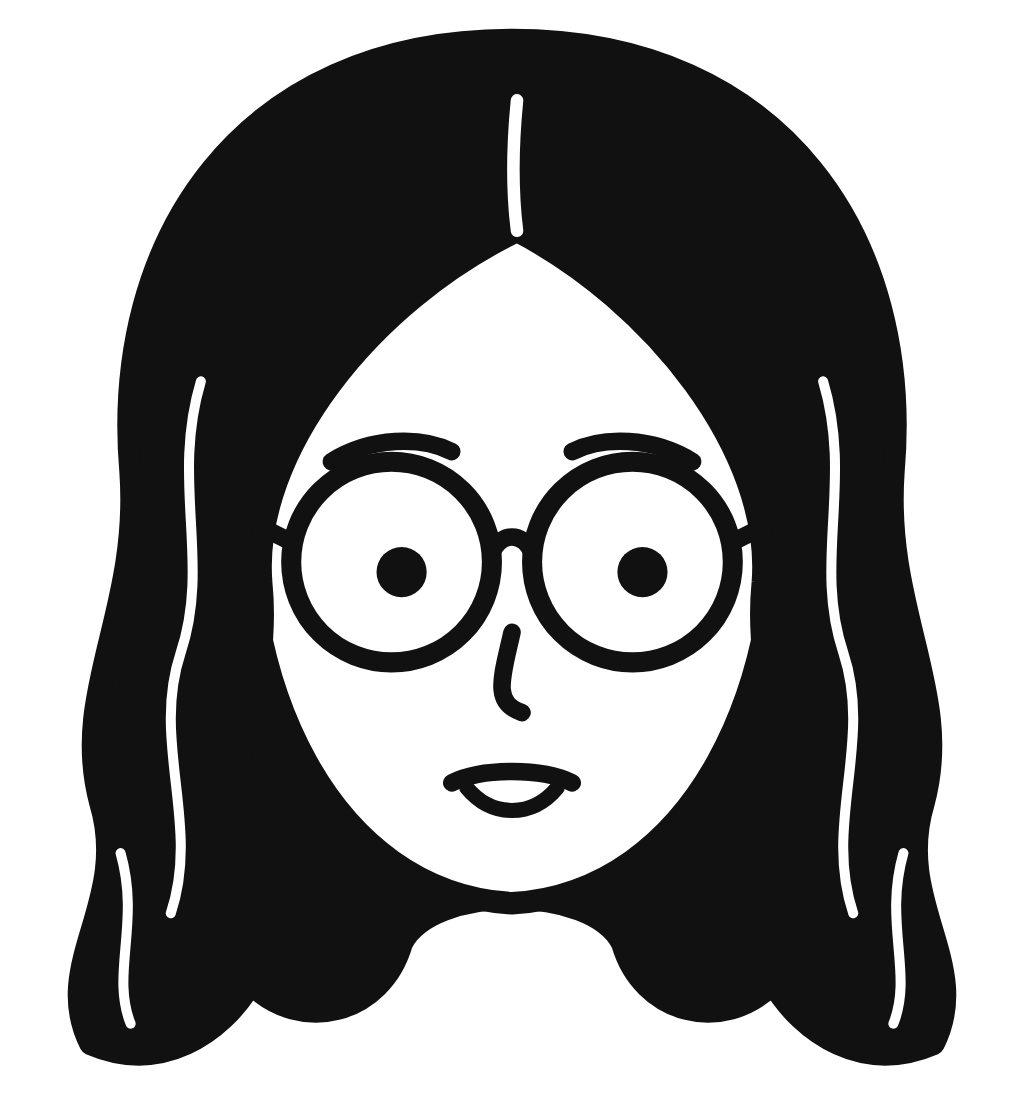
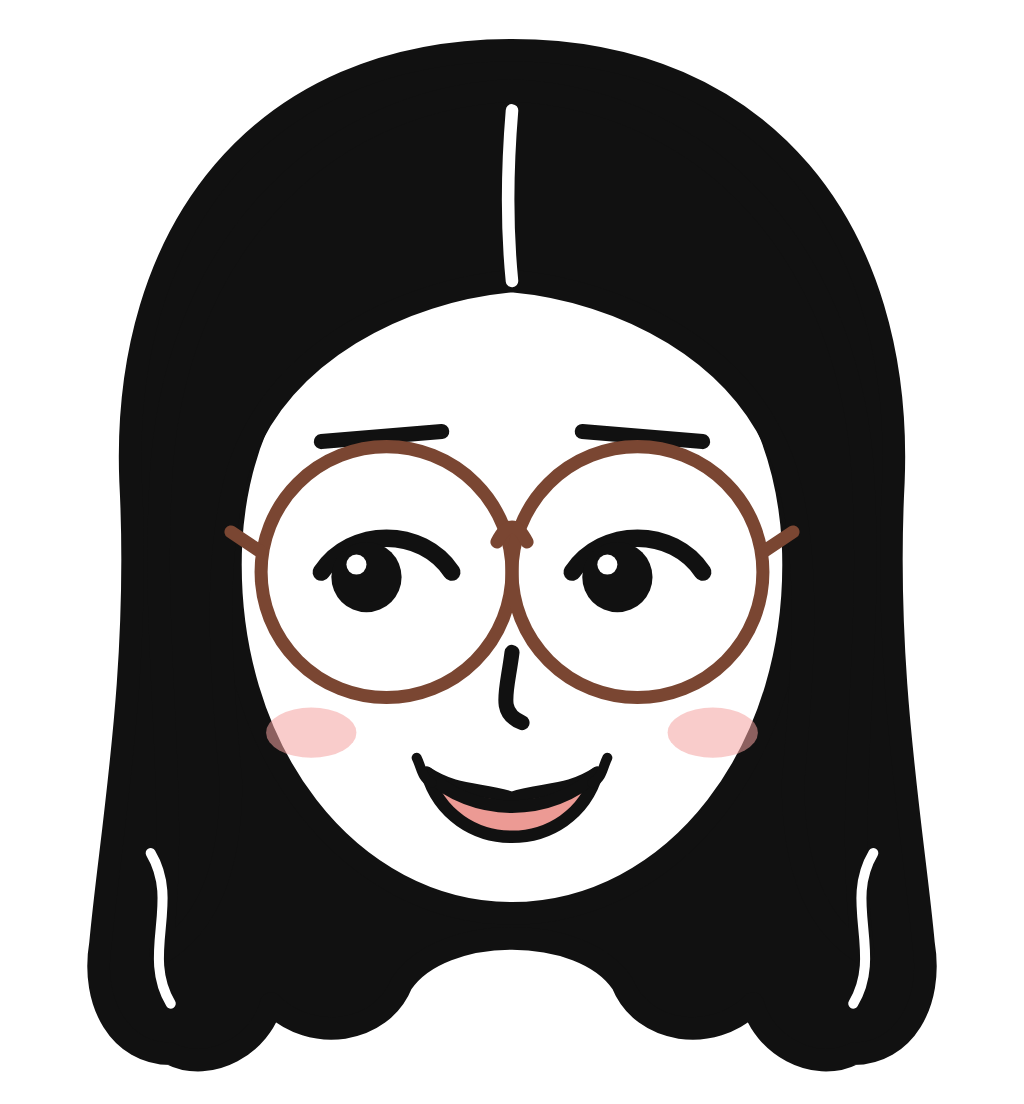
Doodle v2: round face, thin brown glasses, side glance, smile
Regenerated raw SVG/PNG exports in public/doodle.

Claude-Session: https://claude.ai/code/session_01F5p4r5ySEzf7yQwE3BnS4z

diff --git a/src/components/Doodles.tsx b/src/components/Doodles.tsx
@@ -60,35 +60,41 @@ export function StickyNote({ children, className = "" }: { children: React.React
 export function AvatarDoodle({ className = "", face = "#ffe500" }: { className?: string; face?: string }) {
   return (
     <svg viewBox="18 16 204 220" className={className} fill="none" stroke="#111" strokeWidth="4.5" strokeLinecap="round" strokeLinejoin="round" aria-hidden>
-      {/* hair, back layer: wavy, ends just below the chin */}
-      <path d="M120 24 C 66 24, 40 64, 44 110 C 46 138, 32 154, 38 176 C 44 196, 28 208, 36 224 C 50 230, 62 222, 68 212 C 78 222, 94 218, 98 204 C 104 192, 136 192, 142 204 C 146 218, 162 222, 172 212 C 178 222, 190 230, 204 224 C 212 208, 196 196, 202 176 C 208 154, 194 138, 196 110 C 200 64, 174 24, 120 24 Z" fill="#111"/>
-      {/* face */}
-      <path d="M68 108 C 64 152, 84 194, 120 196 C 156 194, 176 152, 172 108 C 168 76, 146 58, 120 58 C 94 58, 72 76, 68 108 Z" fill={face}/>
-      {/* hair front: centre part, wavy curtains framing the face */}
-      <path d="M120 32 C 82 34, 52 66, 48 110 C 48 128, 40 142, 46 162 C 52 182, 40 196, 50 214 C 58 206, 64 196, 64 182 C 64 166, 72 152, 70 132 C 68 106, 92 76, 121 62 C 148 76, 172 106, 170 132 C 168 152, 176 166, 176 182 C 176 196, 182 206, 190 214 C 200 196, 188 182, 194 162 C 200 142, 192 128, 192 110 C 188 66, 158 34, 120 32 Z" fill="#111"/>
-      {/* wave strands */}
-      <path d="M58 92 C 52 112, 60 128, 54 146 C 48 164, 58 180, 52 198" stroke={face} strokeWidth="2"/>
-      <path d="M182 92 C 188 112, 180 128, 186 146 C 192 164, 182 180, 188 198" stroke={face} strokeWidth="2"/>
-      <path d="M42 186 C 46 200, 40 210, 44 220" stroke={face} strokeWidth="2"/>
-      <path d="M198 186 C 194 200, 200 210, 196 220" stroke={face} strokeWidth="2"/>
+      {/* hair, back layer: straight, falls just past the chin, waves only at the ends */}
+      <path d="M120 26 C 70 26, 42 62, 44 112 C 46 150, 40 182, 38 204 C 36 216, 42 226, 52 226 C 60 230, 70 224, 72 216 C 80 224, 94 222, 98 212 C 106 200, 134 200, 142 212 C 146 222, 160 224, 168 216 C 170 224, 180 230, 188 226 C 198 226, 204 216, 202 204 C 200 182, 194 150, 196 112 C 198 62, 170 26, 120 26 Z" fill="#111"/>
+      {/* face: round, full cheeks, soft chin */}
+      <path d="M64 124 C 62 166, 88 198, 120 198 C 152 198, 178 166, 176 124 C 174 90, 152 68, 120 68 C 88 68, 66 90, 64 124 Z" fill={face}/>
+      {/* hair front: centre part, straight curtains framing the face */}
+      <path d="M120 34 C 80 36, 52 68, 50 112 C 48 146, 54 176, 50 206 C 60 200, 64 188, 64 172 C 62 150, 60 126, 66 108 C 74 86, 98 74, 120 72 C 142 74, 166 86, 174 108 C 180 126, 178 150, 176 172 C 176 188, 180 200, 190 206 C 186 176, 192 146, 190 112 C 188 68, 160 36, 120 34 Z" fill="#111"/>
       {/* the part */}
-      <path d="M121 36 C 120 46, 120 54, 121 62" stroke={face} strokeWidth="2.5"/>
-      {/* brows */}
-      <path d="M84 108 C 92 103, 102 103, 108 106" strokeWidth="3.5"/>
-      <path d="M132 106 C 138 103, 148 103, 156 108" strokeWidth="3.5"/>
-      {/* round glasses */}
-      <circle cx="96" cy="128" r="20" strokeWidth="4"/>
-      <circle cx="144" cy="128" r="20" strokeWidth="4"/>
-      <path d="M116 126 C 118 122, 122 122, 124 126" strokeWidth="3.5"/>
-      <path d="M76 124 L 70 121 M164 124 L 170 121" strokeWidth="3.5"/>
-      {/* eyes */}
-      <circle cx="98" cy="130" r="5" fill="#111" stroke="none"/>
-      <circle cx="146" cy="130" r="5" fill="#111" stroke="none"/>
+      <path d="M120 38 C 119 50, 119 62, 120 72" stroke={face} strokeWidth="2.5"/>
+      {/* wave strands, only near the ends */}
+      <path d="M48 186 C 54 196, 46 206, 52 216" stroke={face} strokeWidth="2"/>
+      <path d="M192 186 C 186 196, 194 206, 188 216" stroke={face} strokeWidth="2"/>
+      {/* brows: thin, straight */}
+      <path d="M82 104 L 106 102" strokeWidth="3"/>
+      <path d="M134 102 L 158 104" strokeWidth="3"/>
+      {/* eyes: large, glancing to the side */}
+      <path d="M82 130 C 88 121, 102 121, 108 130" strokeWidth="3.5"/>
+      <path d="M132 130 C 138 121, 152 121, 158 130" strokeWidth="3.5"/>
+      <circle cx="91" cy="131" r="7" fill="#111" stroke="none"/>
+      <circle cx="141" cy="131" r="7" fill="#111" stroke="none"/>
+      <circle cx="89" cy="128.5" r="2" fill="#fff" stroke="none"/>
+      <circle cx="139" cy="128.5" r="2" fill="#fff" stroke="none"/>
+      {/* big round glasses, thin brown frames */}
+      <circle cx="95" cy="130" r="25" stroke="#7a4632" strokeWidth="2.6"/>
+      <circle cx="145" cy="130" r="25" stroke="#7a4632" strokeWidth="2.6"/>
+      <path d="M117 124 C 119 120, 121 120, 123 124" stroke="#7a4632" strokeWidth="2.6"/>
+      <path d="M70 126 L 64 122 M170 126 L 176 122" stroke="#7a4632" strokeWidth="2.6"/>
       {/* nose */}
-      <path d="M120 142 C 118 151, 116 156, 122 158" strokeWidth="3.5"/>
-      {/* lips: calm, slightly full */}
-      <path d="M108 172 C 114 169, 126 169, 132 172" strokeWidth="3.5"/>
-      <path d="M111 173 C 116 179, 124 179, 129 173" strokeWidth="3"/>
+      <path d="M120 146 C 119 154, 117 158, 122 160" strokeWidth="3"/>
+      {/* blush */}
+      <ellipse cx="80" cy="162" rx="9" ry="5" fill="#f4a3a0" fillOpacity="0.55" stroke="none"/>
+      <ellipse cx="160" cy="162" rx="9" ry="5" fill="#f4a3a0" fillOpacity="0.55" stroke="none"/>
+      {/* smile: closed-mouth, full soft-pink lips curving up at the corners */}
+      <path d="M103 170 C 109 174, 114 173, 120 175 C 126 173, 131 174, 137 170 C 132 187, 108 187, 103 170 Z" fill="#ec9a94" strokeWidth="2.5"/>
+      <path d="M103 170 C 112 179, 128 179, 137 170" strokeWidth="2.5"/>
+      <path d="M101 167 C 102 169, 102 171, 104 172 M139 167 C 138 169, 138 171, 136 172" strokeWidth="2"/>
     </svg>
   );
 }
